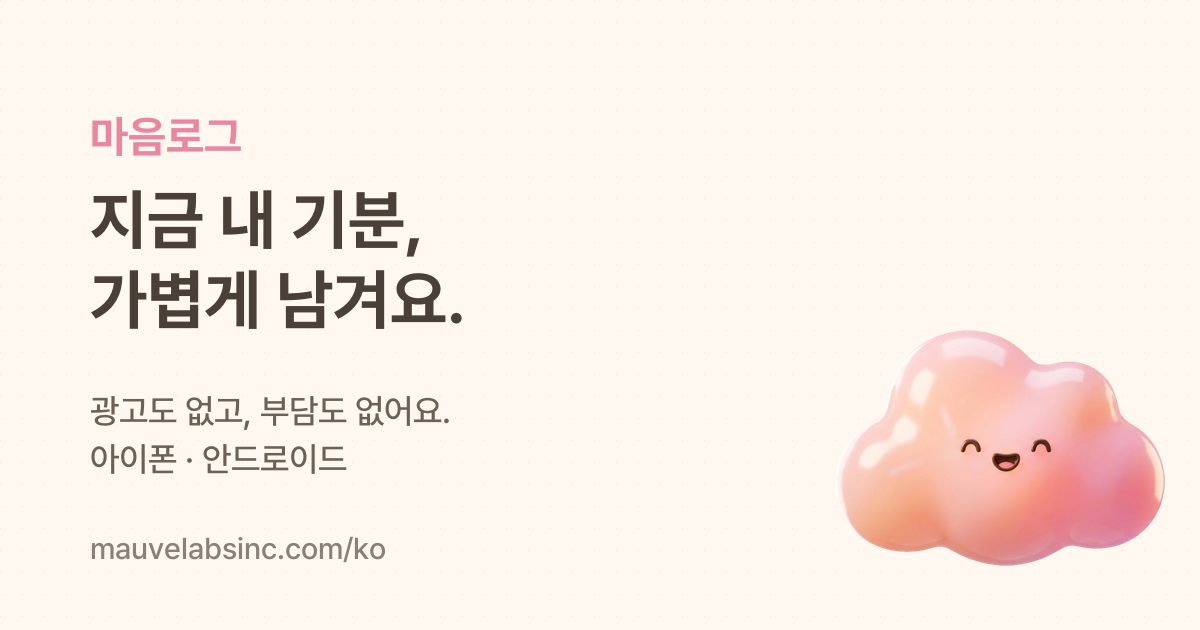
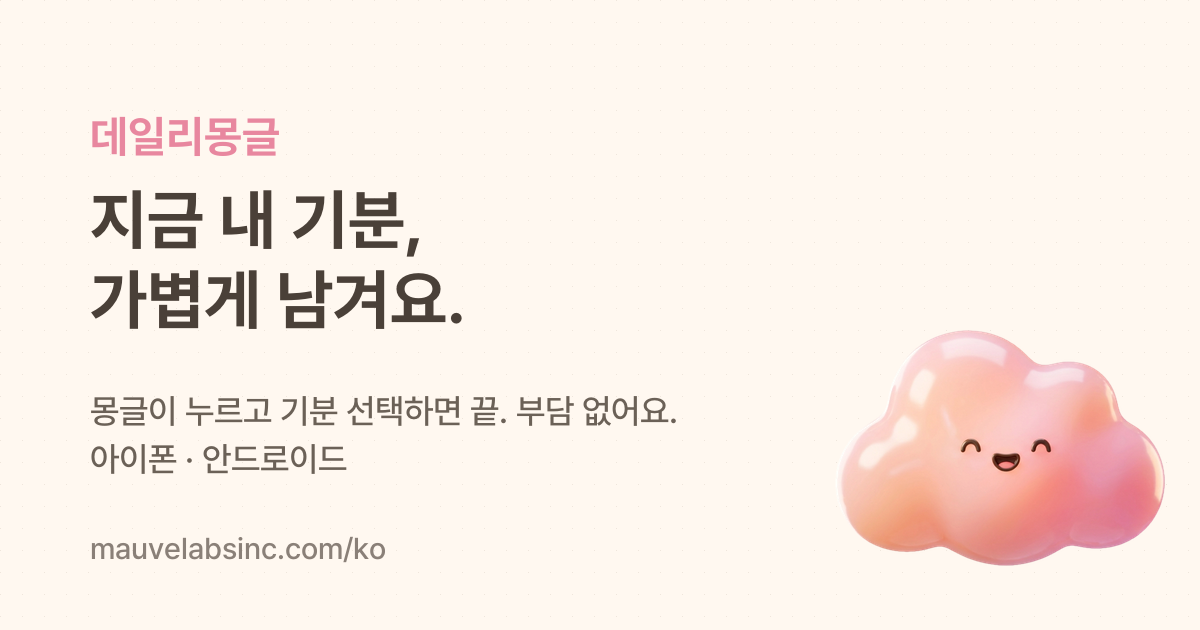
assets(og): 공유 미리보기 이미지에서 「광고 없음」·옛 이름 제거
- og.png: 이름 DailyCumulus · 문구 「Tap Mongle, pick a mood, done. No pressure.」(en.json og_description)
- og-ko.png: 이름 데일리몽글 · 문구 「몽글이 누르고 기분 선택하면 끝. 부담 없어요.」(ko.json og_description)
- tools/og_image.py: 생성기 — 옛 문구로 그리면 기존 두 장과 픽셀 차이 0(최대 차이 0)으로 확인한 뒤 새 문구로 그림 · 몽글이는 앱 공식 그림(mongle_very_good.png) 비율 유지 축소

Claude-Session: https://claude.ai/code/session_017HUExyZ58Y2Jv744zBtPxR

Changed region(s): [[0.0617, 0.6333, 0.555, 0.6937], [0.0617, 0.181, 0.2467, 0.2714]]

diff --git a/tools/og_image.py b/tools/og_image.py
@@ -1,0 +1,84 @@
+#!/usr/bin/env python3
+"""공유 미리보기(Open Graph) 이미지 만들기 — assets/og.png(영어) · assets/og-ko.png(한국어).
+
+1200×630 · 크림 바탕(#FFF8F0) + 22px 간격 점 · 왼쪽 글자(Pretendard) · 오른쪽 몽글이(앱 공식 그림 그대로, 비율 유지 축소).
+2026-10-06에 만든 이미지의 자리·크기·색을 픽셀로 맞춰 옮긴 것(2026-11-09) — 글자를 바꿀 때 이 파일의 문구만 고친다.
+
+    python3 tools/og_image.py            # 두 장을 assets/에 다시 만든다
+    python3 tools/og_image.py --out DIR  # 다른 폴더에 만든다(미리 보기)
+
+필요한 것: Pillow · Pretendard(~/Library/Fonts) · 앱 저장소의 몽글이 그림(../dailycumulus-rn/assets/images/mongle/mongle_very_good.png)
+"""
+import argparse
+import os
+
+from PIL import Image, ImageDraw, ImageFont
+
+ROOT = os.path.dirname(os.path.dirname(os.path.abspath(__file__)))
+FONT_DIR = os.path.expanduser('~/Library/Fonts')
+MONGLE = os.path.join(ROOT, '..', 'dailycumulus-rn', 'assets', 'images', 'mongle', 'mongle_very_good.png')
+
+W, H = 1200, 630
+BG = (255, 248, 240)       # site-v2.css 바탕
+DOT = (239, 230, 220)
+PINK_DEEP = (232, 135, 159)  # --pink-deep #E8879F
+INK = (74, 64, 56)           # --ink #4A4038
+INK_SOFT = (107, 97, 87)     # --ink-soft #6B6157
+INK_FAINT = (138, 128, 120)  # --ink-faint #8A8078
+X = 90
+MONGLE_W, MONGLE_XY = 330, (835, 330)
+
+# 문구는 locales/<언어>.json의 og_title · og_description과 맞춘다
+PAGES = {
+    'og.png': {
+        'name': 'DailyCumulus',
+        'title': ["A little diary for how", "you're actually feeling."], 'title_size': 60, 'title_y': (180, 254),
+        'lines': ['Tap Mongle, pick a mood, done. No pressure.', 'iPhone & Android'], 'lines_y': (380, 428),
+        'url': 'mauvelabsinc.com',
+    },
+    'og-ko.png': {
+        'name': '데일리몽글',
+        'title': ['지금 내 기분,', '가볍게 남겨요.'], 'title_size': 66, 'title_y': (180, 260),
+        'lines': ['몽글이 누르고 기분 선택하면 끝. 부담 없어요.', '아이폰 · 안드로이드'], 'lines_y': (390, 438),
+        'url': 'mauvelabsinc.com/ko',
+    },
+}
+
+
+def font(weight, size):
+    return ImageFont.truetype(os.path.join(FONT_DIR, f'Pretendard-{weight}.otf'), size)
+
+
+def render(spec):
+    im = Image.new('RGB', (W, H), BG)
+    px = im.load()
+    for y in range(0, H, 22):
+        for x in range(0, W, 22):
+            px[x, y] = DOT
+    d = ImageDraw.Draw(im)
+    d.text((X, 110), spec['name'], font=font('Bold', 44), fill=PINK_DEEP)
+    for text, y in zip(spec['title'], spec['title_y']):
+        d.text((X, y), text, font=font('Bold', spec['title_size']), fill=INK)
+    for text, y in zip(spec['lines'], spec['lines_y']):
+        d.text((X, y), text, font=font('Medium', 34), fill=INK_SOFT)
+    d.text((X, 530), spec['url'], font=font('Medium', 30), fill=INK_FAINT)
+    m = Image.open(MONGLE).convert('RGBA')
+    m = m.resize((MONGLE_W, round(m.height * MONGLE_W / m.width)), Image.LANCZOS)  # 비율 유지
+    base = im.convert('RGBA')
+    base.alpha_composite(m, MONGLE_XY)
+    return base.convert('RGB')
+
+
+def main():
+    ap = argparse.ArgumentParser()
+    ap.add_argument('--out', default=os.path.join(ROOT, 'assets'))
+    a = ap.parse_args()
+    os.makedirs(a.out, exist_ok=True)
+    for name, spec in PAGES.items():
+        path = os.path.join(a.out, name)
+        render(spec).save(path, optimize=True)
+        print(path)
+
+
+if __name__ == '__main__':
+    main()
